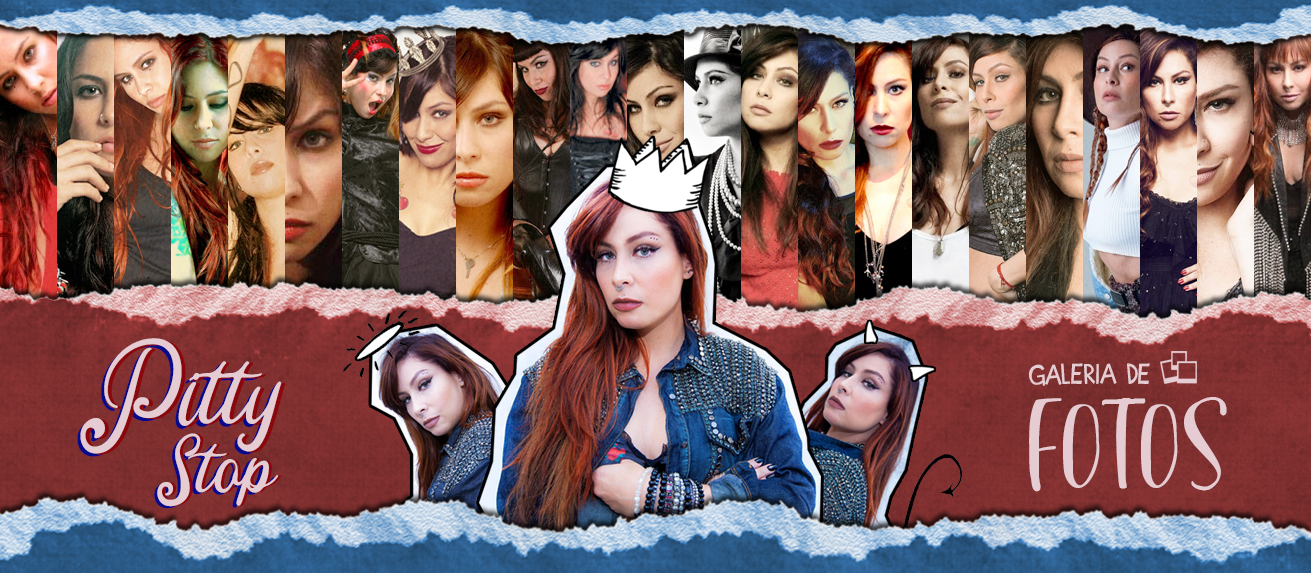
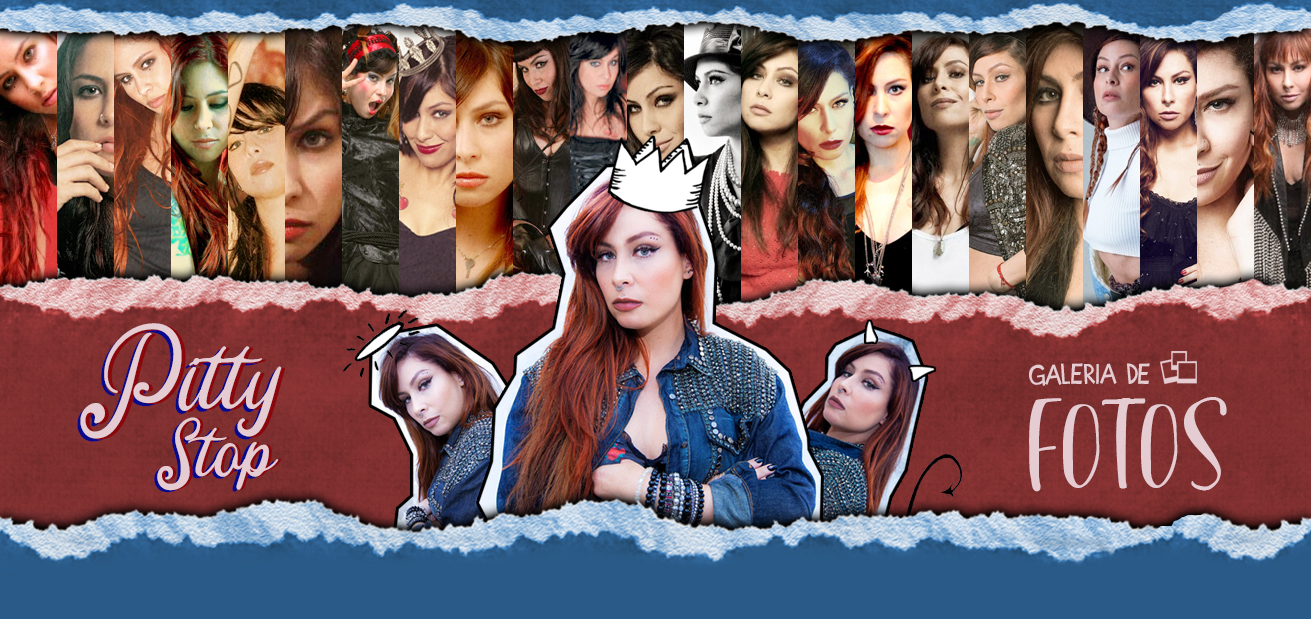
Update theme

diff --git a/src/themes/pittystop-2020.1/style.scss b/src/themes/pittystop-2020.1/style.scss
@@ -1,29 +1,25 @@
 body {
-  // background: linear-gradient(#2a5886, #7e2e2e 19.33%, #7e2e2e 30.67%, #1f3f5f 37.39%, rgb(19, 39, 60));
-  background: linear-gradient(rgb(42, 88, 134) 0, #2a5886 220px, #7e2e2e 320px, #7e2e2e 500px, #1f3f5f 600px, #13273c)
+  background: linear-gradient(rgb(42, 88, 134) 0, #2B5A88 220px, #7e2e2e 320px, #7e2e2e 500px, #1f3f5f 600px, #13273c);
+  color: #ddd;
+}
+
+a {
+  color: #fff;
+
+  &:hover {
+    color: #5cafff;
+  }
 }
 
 header {
   margin: 0 auto;
   text-align: center;
   position: relative;
+  margin-bottom: -5px;
 
   img {
     width: 100%;
   }
-
-  .overlay {
-    background: linear-gradient(rgba(43, 87, 133, 0) 92.86%, #2a5886);
-    position: absolute;
-    top: 0;
-    left: 0;
-    right: 0;
-    bottom: 0;
-  }
-}
-
-a:hover {
-  color: #5cafff;
 }
 
 header, .app {
@@ -33,7 +29,31 @@ header, .app {
 .app {
   margin: 0 auto;
   width: 100%;
-  background: #2a5886;
+  background: linear-gradient(#2B5A88, #13273c);
+  padding: 1px 40px;
+}
+
+.subfolders {
+  li {
+    flex-basis: calc(50% - 40px);
+    margin: 10px;
+    background: rgba(255, 255, 255, 0.4);
+    padding: 5px 10px;
+    border-radius: 5px;
+    transition: 0.3s;
+
+    a {
+      color: #222;
+    }
+
+    &:hover {
+      background: rgba(255, 255, 255, 0.5);
+
+      a {
+        color: #000;
+      }
+    }
+  }
 }
 
 @media screen and (max-width: 1310px) {

diff --git a/src/index.scss b/src/index.scss
@@ -16,11 +16,11 @@ code {
 
 a {
 	color : #dddddd;
-	text-decoration: none;
-}
+  text-decoration: none;
 
-a:hover {
-	text-decoration: none;
+  &:hover {
+    text-decoration: none;
+  }
 }
 
 ul {
@@ -31,6 +31,7 @@ ul {
 .app {
   width: 80vw;
   max-width: 1200px;
+  min-height: 500px;
   margin: 20px auto;
   padding: 1px 20px;
   box-sizing: border-box;
@@ -68,7 +69,7 @@ ul {
   flex-flow: row wrap;
 
   li {
-    flex: 1 0 calc(50% - 20px);
+    flex: 0 0 calc(50% - 20px);
     margin: 10px 0;
 
     a {
@@ -105,7 +106,7 @@ ul {
     margin: 15px auto;
     border-radius: 50%;
     border: 6px solid transparent;
-    border-color: #999 transparent #999 transparent;
+    border-color: #ccc transparent #ccc transparent;
     animation: lds-dual-ring 1.2s linear infinite;
   }
 }

diff --git a/src/App.tsx b/src/App.tsx
@@ -14,7 +14,6 @@ const App: React.StatelessComponent = () => {
     <Router>
       <header>
         <img src={destaque} alt="" />
-        <div className="overlay"></div>
       </header>
       <div className="app">
         <Switch>
